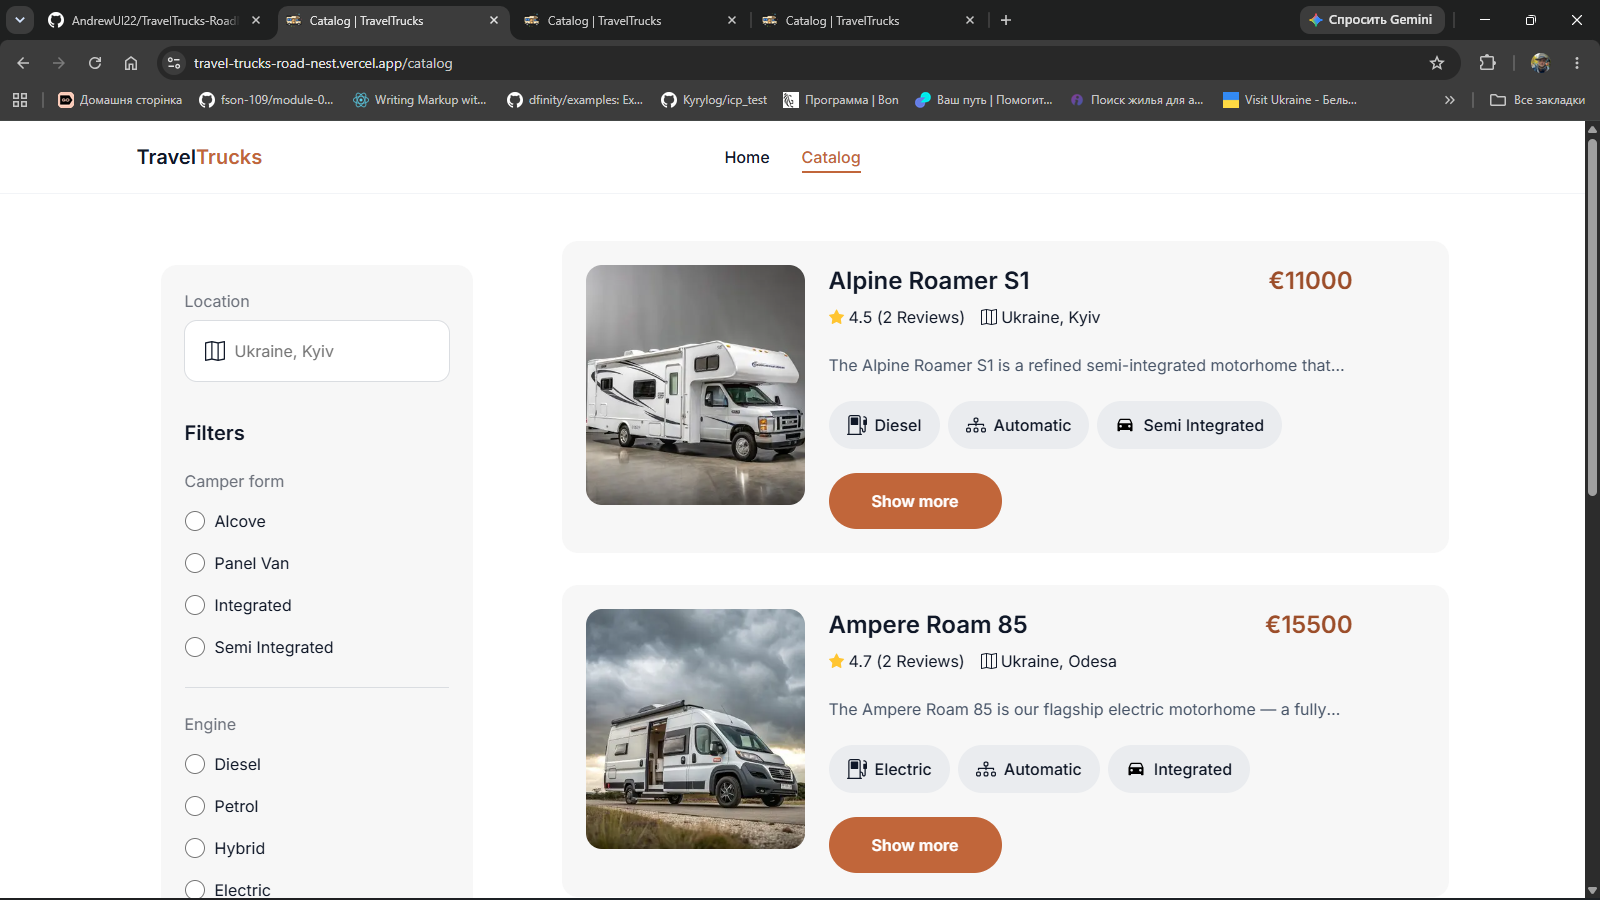
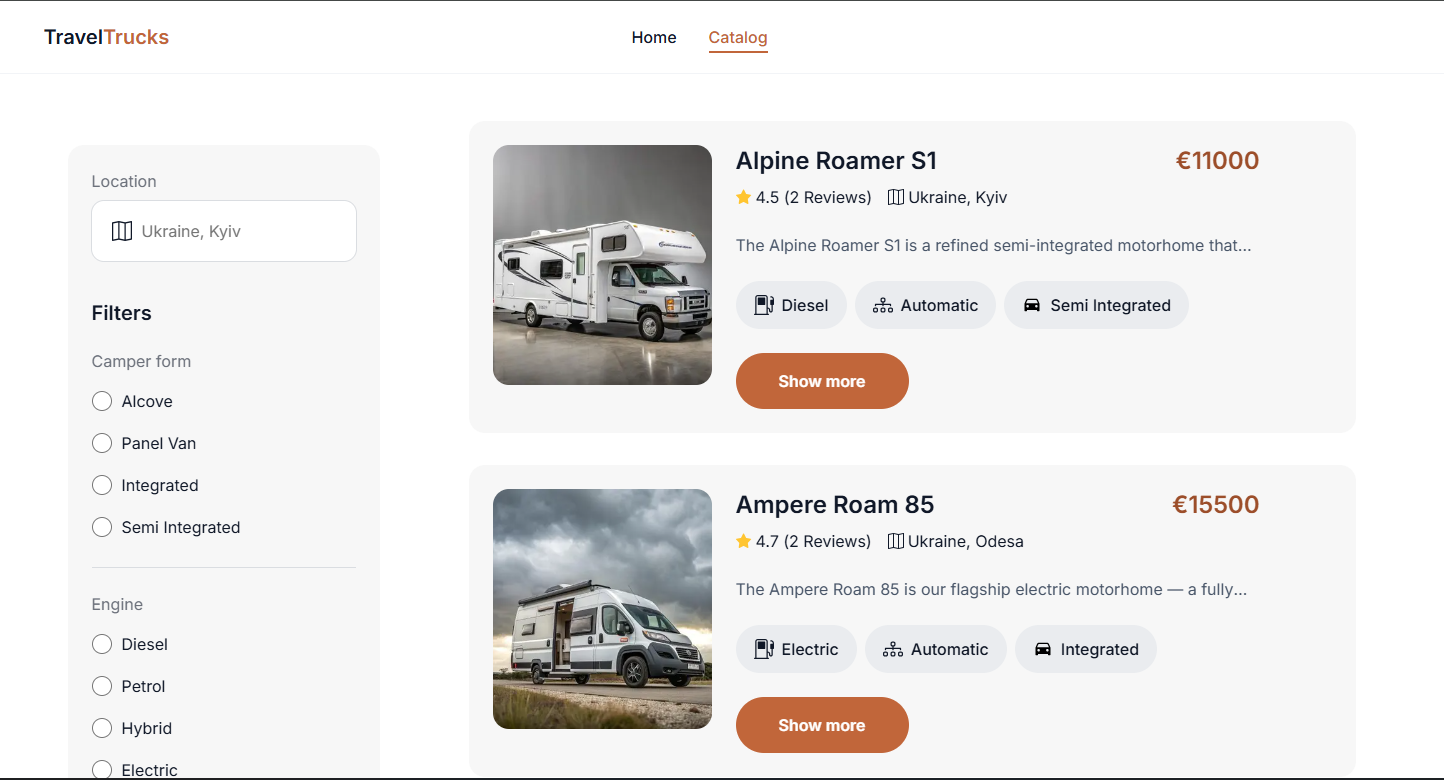
Update README and project structure

diff --git a/README.md b/README.md
@@ -24,17 +24,17 @@ Smooth User Experience
 Clean navigation, consistent design, and accessible interface.
 
 🛠 Tech Stack
-Next.js — SSR & SSG
+Next.js 13+ (App Router)
 
-React — UI components
+React
 
-CSS Modules / Tailwind — styling
+CSS Modules / Tailwind
 
-Node.js — backend logic
+Node.js
 
-MongoDB — database (if used)
+MongoDB (if used)
 
-Vercel — hosting & deployment
+Vercel
 
 📦 Installation
 bash
@@ -49,16 +49,18 @@ http://localhost:3000
 Create a .env.local file in the root directory and add the required keys.
 
 Required Variables
-Variable Description
-NEXT_PUBLIC_API_URL Base URL for API requests
-API_SECRET_KEY Private API key
-MONGODB_URI MongoDB connection string
-NEXT_PUBLIC_MAPBOX_TOKEN Mapbox token (if maps are used)
+Variable	Description
+NEXT_PUBLIC_API_URL	Base URL for API requests
+API_SECRET_KEY	Private API key
+MONGODB_URI	MongoDB connection string
+NEXT_PUBLIC_MAPBOX_TOKEN	Mapbox token (if maps are used)
+
 
 Optional Variables
-Variable Description
-NEXT_PUBLIC_ANALYTICS_ID Analytics tracking ID
-IMAGE_CDN_URL Custom CDN for images
+Variable	Description
+NEXT_PUBLIC_ANALYTICS_ID	Analytics tracking ID
+IMAGE_CDN_URL	Custom CDN for images
+
 
 Example .env.local
 env
@@ -71,16 +73,14 @@ NEXT_PUBLIC_MAPBOX_TOKEN=your-mapbox-token
 ## 📸 Screenshots
 
 ### Home Page
-
 ![Home Page](./screenshots/home.png)
 
 ### Catalog / Gallery
-
 ![Catalog](./screenshots/catalog.png)
 
 ### Camper Details Page
-
 ![Camper Details](./screenshots/details.png)
+
 
 🌐 Deployment
 Automatic Deployment (GitHub → Vercel)
@@ -93,15 +93,18 @@ vercel --prod
 Код
 TravelTrucks-RoadNest/
 │
-├── public/ # Static assets
-├── src/
-│ ├── components/ # Reusable UI components
-│ ├── pages/ # Next.js pages & routing
-│ ├── styles/ # Global and modular styles
-│ ├── utils/ # Helper functions
-│ └── api/ # API routes (if used)
+├── public/                 # Static assets
 │
-├── screenshots/ # Project screenshots
+├── src/
+│   ├── app/                # Next.js App Router pages & layouts
+│   ├── components/         # Reusable UI components
+│   ├── hooks/              # Custom React hooks
+│   ├── providers/          # Global providers (theme, context, etc.)
+│   ├── services/           # API services, data fetching logic
+│   ├── types/              # TypeScript types & interfaces
+│   └── utils/              # Helper functions & utilities
+│
+├── screenshots/            # Project screenshots
 ├── package.json
 └── README.md
 🤝 Contributing